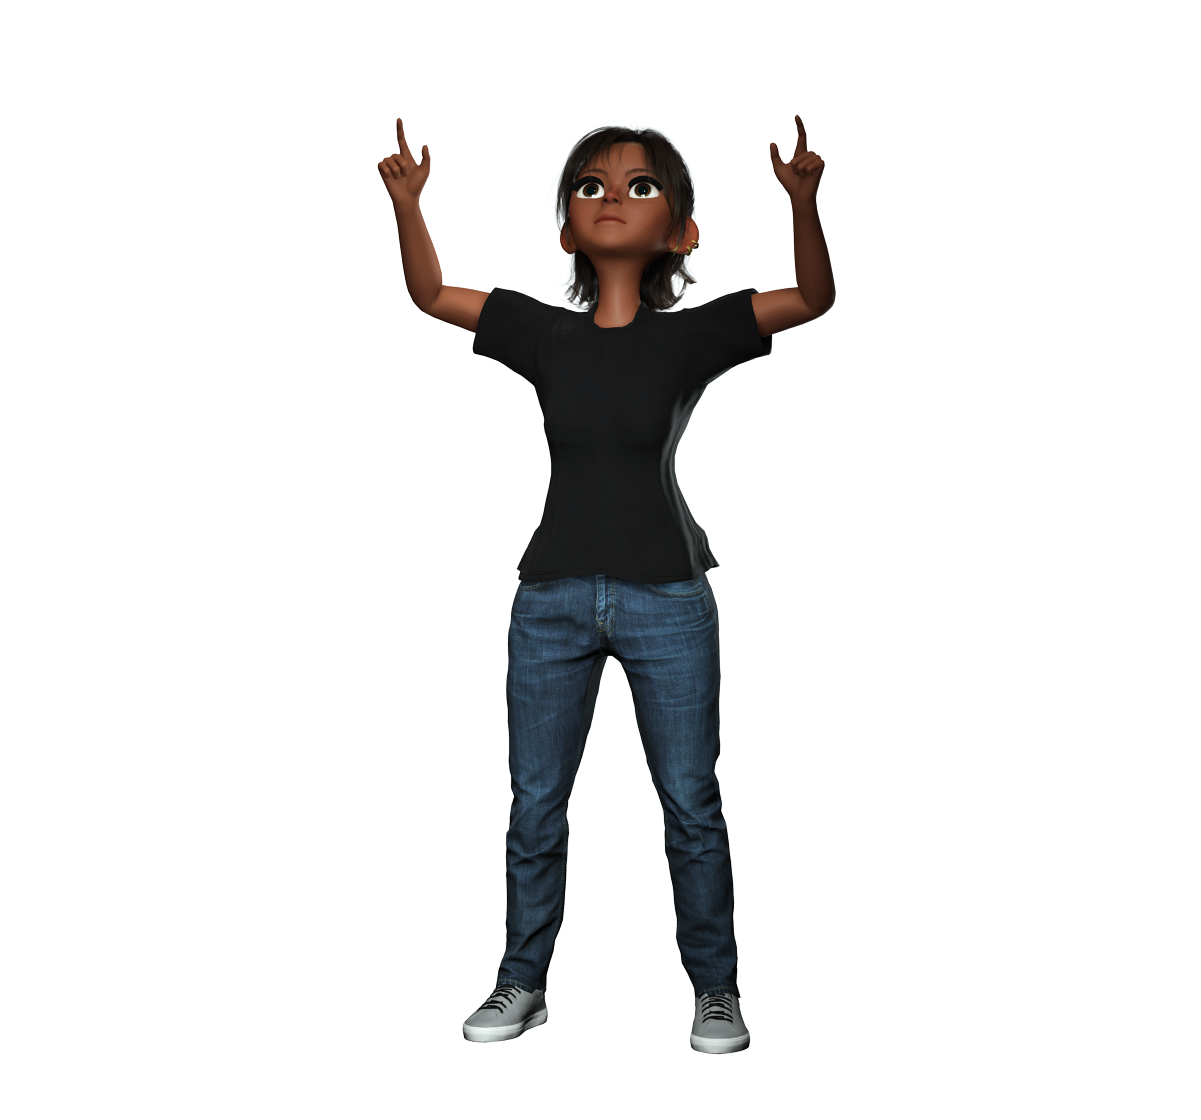
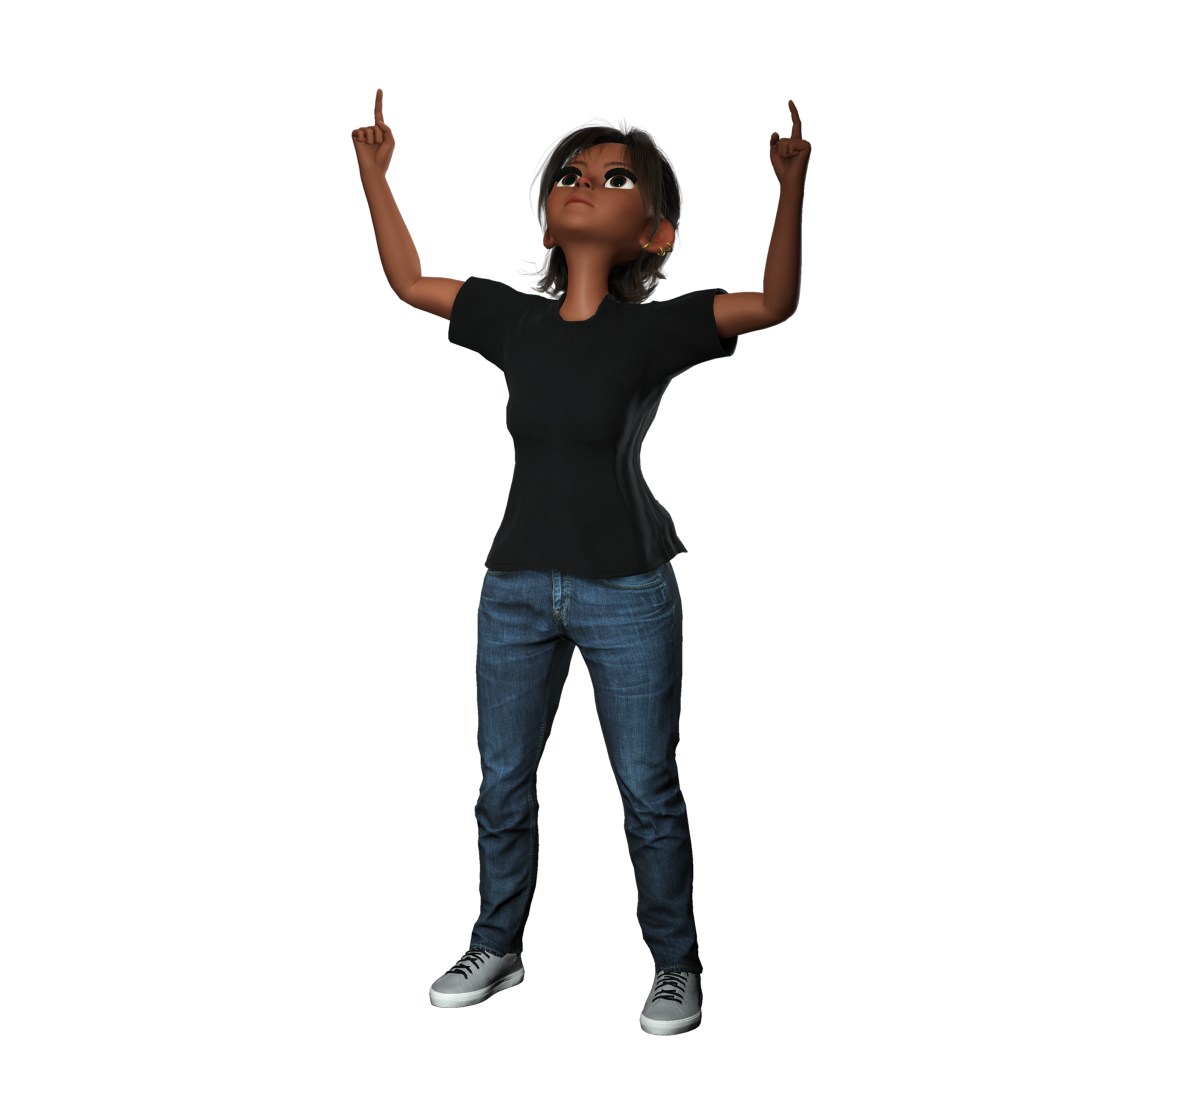
Adds pose type and dictionary to map images

Changed region(s): [[0.2773, 0.0938, 0.7086, 0.9375]]

diff --git a/src/components/MainGame/MainGame.tsx b/src/components/MainGame/MainGame.tsx
@@ -5,7 +5,9 @@ import { useEffect, useRef, useState } from "react";
 import { PlayerPose, Pose } from "../../types/TensorFlow.types";
 import { MillisecondsEncoder } from "../../utils/format.utils";
 import { MainGameStyle } from "./MainGame.styles";
-import pose1 from "../../assets/poses/pose1.png"
+import { PoseName } from "../../types/BodyPose.types";
+import { poseDictionary } from "./PoseDictionary";
+
 
 const WEBCAM_SPECS = {
     width: 640,
@@ -28,9 +30,9 @@ const MainGame = () => {
     const ctxRef = useRef<CanvasRenderingContext2D | null>(null);
 
     const modelRef = useRef<tmPose.CustomPoseNet | null>(null);
-    const posesBankRef = useRef<string[]>([]);
-    const incomingPosesRef = useRef<string[]>([]);
-    const poseToMatchRef = useRef<string>('');
+    const posesBankRef = useRef<PoseName[]>([]);
+    const incomingPosesRef = useRef<PoseName[]>([]);
+    const poseToMatchRef = useRef<PoseName>('');
     const playerPoseRef = useRef<PlayerPose>({
         className: 'null',
         probability: 0
@@ -49,7 +51,7 @@ const MainGame = () => {
         className: 'null',
         probability: 0
     });
-    const [poseToMatch, setPoseToMatch] = useState<string | null>(null);
+    const [poseToMatch, setPoseToMatch] = useState<PoseName | null>(null);
     const [remainingTime, setRemainingTime] = useState<string>(MillisecondsEncoder.toMinutesSeconds(GAME_TIME));
 
     const [score, setScore] = useState<number>(0);
@@ -68,8 +70,8 @@ const MainGame = () => {
             modelRef.current = loadedModel;
 
             //Set up poses array
-            posesBankRef.current = loadedModel.getClassLabels().filter((label) => label !== 'Idle');
-            incomingPosesRef.current = setInitialIncomingPoses(posesBankRef.current);
+            posesBankRef.current = (loadedModel.getClassLabels() as PoseName[]).filter((label) => (label) !== 'Idle');
+            incomingPosesRef.current = setInitialIncomingPoses(posesBankRef.current) as PoseName[];
 
             setPoseToMatch(incomingPosesRef.current[0]);
             poseToMatchRef.current = incomingPosesRef.current[0];
@@ -234,7 +236,9 @@ const MainGame = () => {
 
     return (
         <MainGameStyle>
-            <img src={pose1} />
+            {poseToMatch && (
+                <img src={poseDictionary[poseToMatch]} />
+            )}
             <canvas ref={canvasRef} id="canvas"></canvas>
             {debug && (
                 <>

diff --git a/src/components/MainGame/PoseDictionary.ts b/src/components/MainGame/PoseDictionary.ts
@@ -1,0 +1,27 @@
+import pose1 from "../../assets/poses/pose1.png"
+import pose2 from "../../assets/poses/pose2.png"
+import pose3 from "../../assets/poses/pose3.png"
+import pose4 from "../../assets/poses/pose4.png"
+import pose5 from "../../assets/poses/pose5.png"
+import pose6 from "../../assets/poses/pose6.png"
+import pose7 from "../../assets/poses/pose7.png"
+import pose8 from "../../assets/poses/pose8.png"
+import pose9 from "../../assets/poses/pose9.png"
+import pose10 from "../../assets/poses/pose10.png"
+import { PoseName } from "../../types/BodyPose.types"
+
+export const poseDictionary: { [key in PoseName]: string; } = {
+  "inTheSkyMessi": pose1,
+  "saluteLinda": pose2,
+  "innerPeaceSalah": pose3,
+  "ironMikeTyson": pose4,
+  "shooterYusuf": pose5,
+  "wednesdayJenna": pose6,
+  "sailorMoon": pose7,
+  "inSightDybala": pose8,
+  "gunsJosuke": pose9,
+  "standJoseph": pose10,
+
+  "": pose1,
+  "Idle": pose1
+}

diff --git a/src/types/BodyPose.types.ts b/src/types/BodyPose.types.ts
@@ -39,3 +39,17 @@ export interface PoseData {
 }
 
 export type Connection = [number, number];
+
+export type PoseName = 
+  'inTheSkyMessi' |
+  'saluteLinda' |
+  'innerPeaceSalah' |
+  'ironMikeTyson' |
+  'shooterYusuf' |
+  'wednesdayJenna' |
+  'sailorMoon' |
+  'inSightDybala' |
+  'gunsJosuke' |
+  'standJoseph' |
+  'Idle' |
+  ''
